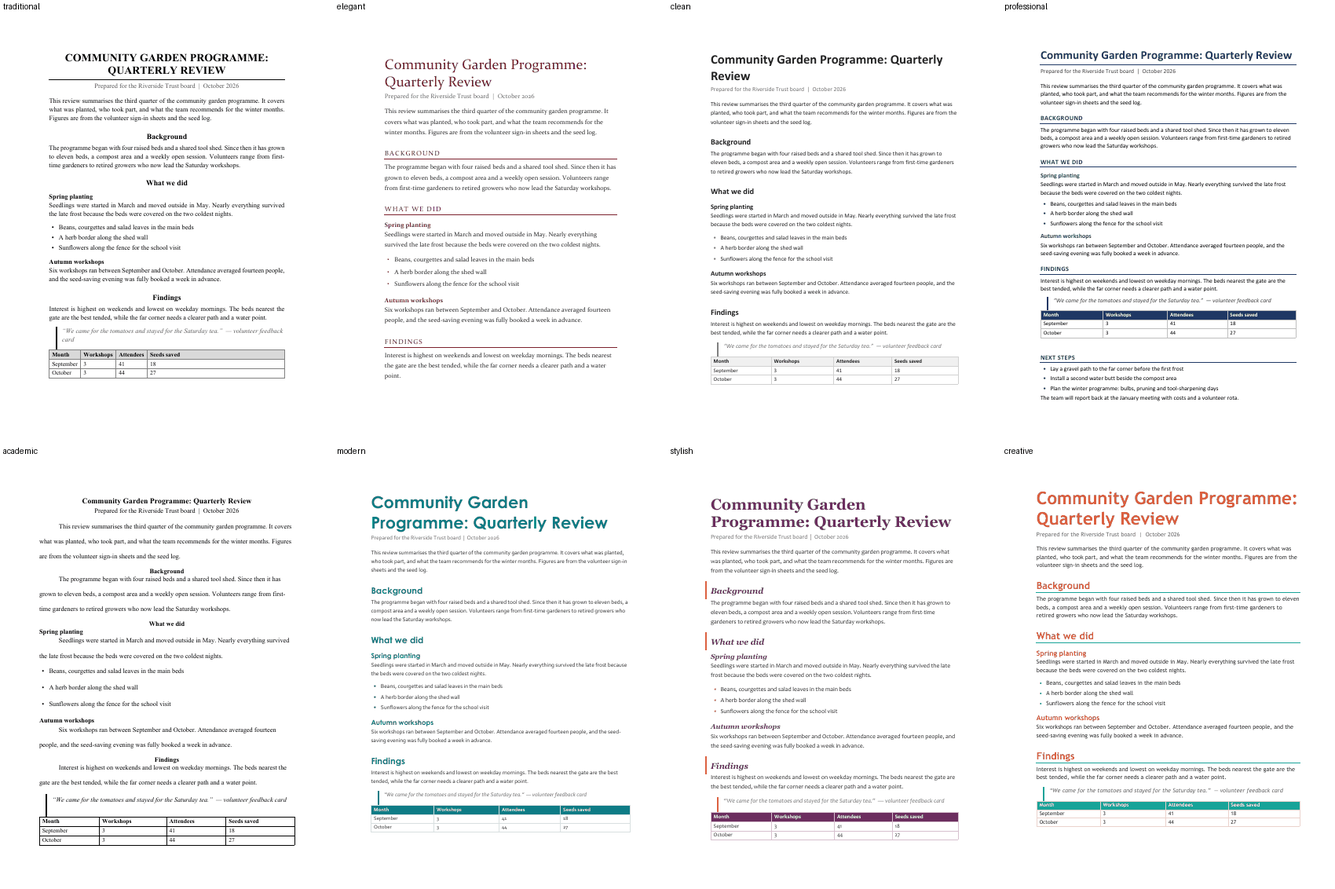
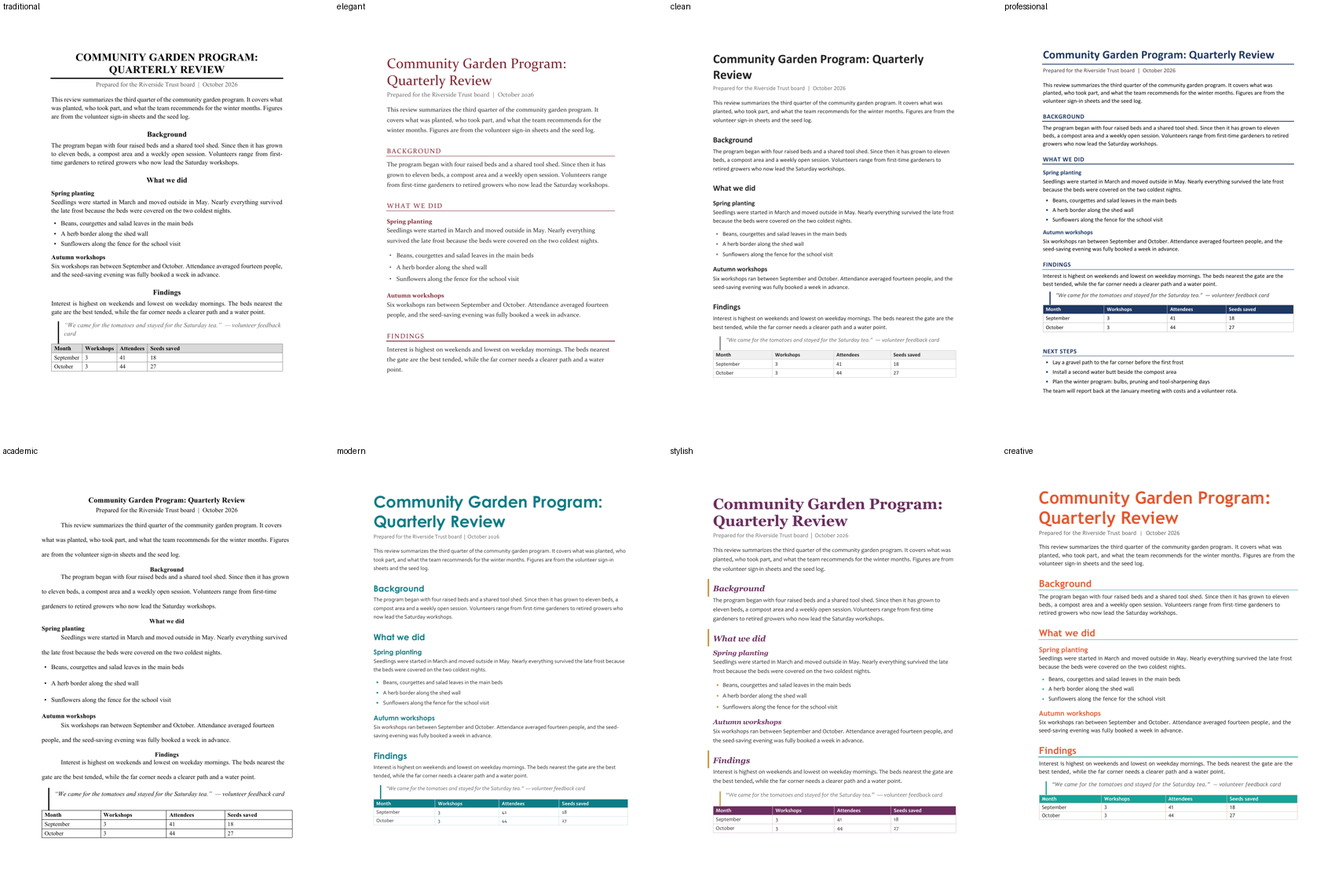
styles: report kind (quarterly program review) in all 8 styles; US spelling in sample text; doc previews regenerated

diff --git a/styles/content.py b/styles/content.py
@@ -1,12 +1,12 @@
-"""Invented sample content used to show a style on a real-looking page. Nothing here describes a real person or organisation."""
+"""Invented sample content used to show a style on a real-looking page. Nothing here describes a real person or organization."""
 
 DOC = [
-    ("title", "Community Garden Programme: Quarterly Review"),
+    ("title", "Community Garden Program: Quarterly Review"),
     ("subtitle", "Prepared for the Riverside Trust board  |  October 2026"),
-    ("p", "This review summarises the third quarter of the community garden programme. It covers what was planted, who took part, "
+    ("p", "This review summarizes the third quarter of the community garden program. It covers what was planted, who took part, "
           "and what the team recommends for the winter months. Figures are from the volunteer sign-in sheets and the seed log."),
     ("h1", "Background"),
-    ("p", "The programme began with four raised beds and a shared tool shed. Since then it has grown to eleven beds, a compost area and a "
+    ("p", "The program began with four raised beds and a shared tool shed. Since then it has grown to eleven beds, a compost area and a "
           "weekly open session. Volunteers range from first-time gardeners to retired growers who now lead the Saturday workshops."),
     ("h1", "What we did"),
     ("h2", "Spring planting"),
@@ -26,7 +26,7 @@ DOC = [
     ("h1", "Next steps"),
     ("bullets", ["Lay a gravel path to the far corner before the first frost",
                  "Install a second water butt beside the compost area",
-                 "Plan the winter programme: bulbs, pruning and tool-sharpening days"]),
+                 "Plan the winter program: bulbs, pruning and tool-sharpening days"]),
     ("p", "The team will report back at the January meeting with costs and a volunteer rota."),
 ]
 
@@ -73,7 +73,7 @@ CV = {
                      "Wrote four successful grant applications totalling EUR 850,000."]},
         {"title": "Project Officer", "dates": "09/2017 \u2013 02/2021", "org": "Demo Urban Greening Office  \u2022  Otherville, Exampleland",
          "bullets": ["Planned and monitored 30 pocket-park installations.",
-                     "Introduced a shared monitoring spreadsheet used by six partner organisations."]},
+                     "Introduced a shared monitoring spreadsheet used by six partner organizations."]},
     ],
     "education": [("MSc Environmental Management", "Example University of Technology, Sampletown", "2015 \u2013 2017"),
                   ("BSc Geography", "Sample State University, Otherville", "2012 \u2013 2015")],
@@ -99,7 +99,7 @@ RESUME_EXTRA = {
 
 # Invented student paper. The sources are fictional; replace them with real ones.
 PAPER = {
-    "title": "Community Gardens and Neighbourhood Wellbeing",
+    "title": "Community Gardens and Neighborhood Wellbeing",
     "author": "Jane Doe", "surname": "Doe", "affiliation": "Example University",
     "course": "SOC 210: Urban Communities", "instructor": "Dr. Mary Major", "date": "October 26, 2026",
     "body": [
@@ -107,10 +107,10 @@ PAPER = {
               "This paper reviews two recent studies and argues that the clearest benefit is social rather than nutritional {c1}."),
         ("h1", "Background"),
         ("p", "Early work on urban gardening focused on food production and cost savings. More recent studies ask instead how shared growing spaces "
-              "change the way neighbours know and trust one another {c2}."),
+              "change the way neighbors know and trust one another {c2}."),
         ("h2", "Measuring wellbeing"),
         ("p", "Both studies rely on short surveys given at the start and end of a growing season. Respondents rate their sense of belonging, "
-              "and the researchers compare gardeners with a matched group of non-gardening neighbours."),
+              "and the researchers compare gardeners with a matched group of non-gardening neighbors."),
         ("h1", "Discussion"),
         ("p", "The two studies agree on the direction of the effect and differ on its size. The larger effect appears where gardens run open weekly sessions, "
               "which suggests that the schedule matters as much as the soil {c1}."),
@@ -139,13 +139,13 @@ SCRIPTS = {
 # Extra blocks for papers (--extras): an abstract, a block quote and a captioned table.
 PAPER_EXTRAS = {
     "abstract": ("This paper compares two recent studies of community gardens and argues that their clearest benefit is social. "
-                 "It summarises how each study measured belonging, notes where the findings agree, and suggests that weekly open sessions "
+                 "It summarizes how each study measured belonging, notes where the findings agree, and suggests that weekly open sessions "
                  "matter more than garden size."),
-    "keywords": "community gardens, belonging, urban neighbourhoods",
+    "keywords": "community gardens, belonging, urban neighborhoods",
     "quote": ("The garden gate is rarely locked, and that, more than the vegetables, seems to be the point: anyone may walk in, "
               "pick up a trowel, and be asked what they are growing."),
     "table_caption": ("Table 1", "Survey sample by group"),
-    "table_rows": [["Group", "Respondents", "Mean belonging score"], ["Gardeners", "112", "4.1"], ["Neighbours", "102", "3.4"]],
+    "table_rows": [["Group", "Respondents", "Mean belonging score"], ["Gardeners", "112", "4.1"], ["Neighbors", "102", "3.4"]],
 }
 
 # Invented manuscript (a short novel opening). Markup used by --text files too: a line "# Title" starts a chapter, a line "#" or "* * *" alone is a scene break,
@@ -153,7 +153,7 @@ PAPER_EXTRAS = {
 MANUSCRIPT = {
     "title": "Salt and Lantern Light",
     "author": "Rowan Tilby", "pen": "Rowan Tilby", "surname": "Tilby",
-    "address": ["14 Example Row", "Harbourside, EX1 2AB, United Kingdom"],
+    "address": ["14 Example Row", "Harborside, OR 97000"],
     "phone": "(555) 010-0142", "email": "rowan.tilby@example.com",
     "text": """# Chapter One: The Last Boat
 
@@ -198,7 +198,7 @@ THE END
 # lines is a character cue with dialogue, and a line in (parentheses) inside it is a parenthetical; everything else is action. *word* is italic.
 SCREENPLAY = {
     "title": "The Last Signal", "author": "Sam Whitlock",
-    "contact": ["14 Example Row", "Harbourside, EX1 2AB", "(555) 010-0142", "sam.whitlock@example.com"],
+    "contact": ["14 Example Row", "Harborside, OR 97000", "(555) 010-0142", "sam.whitlock@example.com"],
     "draft": "First draft",
     "text": """FADE IN:
 
@@ -295,7 +295,7 @@ Ida must decide whether to leave and let her mother's lamp go out, or to take ov
 # ((parenthetical) lines inside a speech are kept), BLACKOUT. / CURTAIN. / END OF PLAY close a scene or the play, *word* is italic.
 STAGEPLAY = {
     "title": "Weather Station", "author": "Casey Larkin", "credit": "a play in one act", "draft": "First draft",
-    "contact": ["14 Example Row", "Harbourside, EX1 2AB", "(555) 010-0142", "casey.larkin@example.com"],
+    "contact": ["14 Example Row", "Harborside, OR 97000", "(555) 010-0142", "casey.larkin@example.com"],
     "text": """CHARACTERS
 MIRA OKONKWO, 40s, the station keeper
 DEV HALLORAN, 20s, her new assistant
@@ -360,4 +360,37 @@ CURTAIN.
 
 END OF PLAY
 """,
+}
+
+# Invented quarterly program review (the `report` kind). Nothing here is real.
+REPORT = {
+    "title": "Community Garden Program",
+    "subtitle": "Quarterly Review, Q3 2026",
+    "meta": [("Project", "Community Garden Program"), ("Period", "July – September 2026"),
+             ("Prepared by", "Program team"), ("Status", "On track")],
+    "summary": ("The garden finished the third quarter on schedule and slightly under budget. Eleven of twelve planned beds are in use, "
+                "six workshops ran with strong attendance, and volunteer numbers held steady through the summer heat. "
+                "One item needs a board decision: funding for a water point in the far corner."),
+    "kpis": [("11 of 12", "Raised beds in use"), ("86%", "Volunteer retention"), ("$9,400", "Spent of $12,000 budget"), ("6", "Workshops held")],
+    "highlights": ["Beds 10 and 11 were built and planted in August with the help of a school group",
+                   "The seed-saving evening was fully booked a week in advance",
+                   "Volunteer sign-ins rose 12% over the second quarter"],
+    "milestones": [["Milestone", "Owner", "Due", "Status"],
+                   ["Build beds 9–11", "Facilities", "Aug 15", "Complete"],
+                   ["Autumn workshop series", "Education", "Oct 31", "On track"],
+                   ["Second water butt installed", "Facilities", "Sep 30", "At risk"],
+                   ["Gravel path to far corner", "Facilities", "Sep 15", "Delayed"]],
+    "budget": [["Category", "Budget", "Actual", "Variance"],
+               ["Soil and compost", "$3,000", "$2,750", "+$250"],
+               ["Tools and materials", "$4,500", "$4,380", "+$120"],
+               ["Workshops", "$2,500", "$2,270", "+$230"],
+               ["Contingency", "$2,000", "$0", "+$2,000"]],
+    "risks": [["Risk", "Rating", "Mitigation"],
+              ["Far corner has no water point", "High", "Request board approval for a water line in October"],
+              ["Fewer weekday volunteers", "Medium", "Pair weekday sessions with the school visit schedule"],
+              ["Early frost before bulbs go in", "Low", "Keep row covers in the tool shed"]],
+    "next": ["Lay the gravel path and install the second water butt before the first frost",
+             "Run the three remaining autumn workshops",
+             "Bring costs for the water line to the January board meeting"],
+    "note": "Figures are from the volunteer sign-in sheets, the seed log and the treasurer's ledger (invented sample data).",
 }

diff --git a/styles/plan.py b/styles/plan.py
@@ -2,7 +2,7 @@
 
     plan = make("modern", "cv", {"paper": "a4"})        # a dict; see the keys at the bottom of make()
 
-Kinds: doc (report), resume (ATS-safe, one column), cv (European CV), paper (student paper, `fmt` apa or mla),
+Kinds: doc (generic styled document), report (quarterly program review: fact sheet, KPI row, status tables), resume (ATS-safe, one column), cv (European CV), paper (student paper, `fmt` apa or mla),
 manuscript (standard manuscript format for publishers/agents; options title author pen surname address phone email wordcount ms_font=times|courier
 ms_layout=novel|short text=/abs/file.txt),
 stageplay (common US playwright layout; options as screenplay plus font=times|courier),
@@ -115,6 +115,68 @@ def make(style_name, kind, o=None):
                                    "style": "Doc Figure", "caption_style": "Doc Caption", "alt": "Bar chart of workshop attendance by session"})
         plan["props"] = {"title": "Style sample: " + style_name, "author": "Sample Author", "subject": S["summary"]}
         if o.get("columns"): notes.append("columns: fine for newsletters and handouts; never use them in a résumé (see styles/README.md on ATS).")
+
+    # ---------------------------------------------------------------- report (quarterly review)
+    elif kind == "report":
+        R = content.REPORT
+        bs = SZ["body"]
+        tint = lambda hx, k: "".join("%02X" % round(int(hx[i:i + 2], 16) * (1 - k) + 255 * k) for i in (0, 2, 4))
+        add("Normal", font=BF, size=bs, color=C["text"], before=0, after=max(B["after"], 6), align="left", indent_first=0, line=min(B["line"], 1.2))   # a report is single-spaced even in the double-spaced academic style
+        hp = dict(font=HF, size=SZ["h1"], color=C["heading"], bold=H["bold"], italic=H["italic"], caps=H["caps"], spacing=H["spacing"],
+                  before=max(H["before"], 16), after=max(H["after"], 6), keep_next=True, align="left", indent_first=0, line=1.0)
+        hp.update(_rule(H, C["accent"], kind)); add("Heading 1", **hp)
+        add("Heading 2", font=HF, size=SZ["h2"], color=C["heading"], bold=True, italic=H["italic"], before=8, after=3, keep_next=True, align="left", indent_first=0, line=1.0)
+        tp = dict(font=HF, size=SZ["title"], color=C["heading"], bold=T["bold"], caps=T["caps"], align="left", after=2, indent_first=0, line=1.0)
+        if T["rule"] == "bottom": tp["border_bottom"] = (C["accent"], 1.5, 4)
+        add("Doc Title", **tp)
+        add("Doc Subtitle", font=HF, size=SZ["h1"], color=C["accent"], bold=False, align="left", after=12, indent_first=0, line=1.0)
+        add("Doc Bullet", indent_first=0, after=3, align="left")
+        add("Doc Table", font=BF, size=max(bs - 1, 8), color=C["text"], before=2, after=2, align="left", indent_first=0, line=1.0)
+        add("Rpt Label", font=BF, size=max(bs - 1.5, 8), color=C["muted"], bold=True, before=2, after=2, align="left", indent_first=0, line=1.0)
+        add("Rpt KPI Value", font=HF, size=22, color=C["accent"] if C["accent"] != C["muted"] else C["heading"], bold=True, before=6, after=0, align="center", indent_first=0, line=1.0)
+        add("Rpt KPI Label", font=BF, size=max(bs - 1.5, 8), color=C["muted"], before=0, after=6, align="center", indent_first=0, line=1.0)
+        add("Rpt Note", font=BF, size=max(bs - 2, 8), color=C["muted"], italic=True, before=10, after=0, align="left", indent_first=0, line=1.0)
+        soft = tint(C["accent"], 0.88)
+        TBL = dict(t="table", rich=True, text=TB["header_text"], border=TB["border"], style="Doc Table")
+        RAG = {"Complete": ("C8E6C9", "1B5E20"), "On track": ("C8E6C9", "1B5E20"), "At risk": ("FFE9A8", "6B4A00"), "Delayed": ("F8C9C4", "8E1B10"),
+               "High": ("F8C9C4", "8E1B10"), "Medium": ("FFE9A8", "6B4A00"), "Low": ("C8E6C9", "1B5E20")}
+
+        def rag_cells(rows, col):
+            return {"%d,%d" % (r, col): RAG[row[col]] for r, row in enumerate(rows) if r and row[col] in RAG}
+
+        para("Doc Title", R["title"]); para("Doc Subtitle", R["subtitle"])
+        # label / value pairs in two rows of two, so the table reads as a quick fact sheet
+        meta = [[R["meta"][0][0], R["meta"][0][1], R["meta"][1][0], R["meta"][1][1]], [R["meta"][2][0], R["meta"][2][1], R["meta"][3][0], R["meta"][3][1]]]
+        fills = {"%d,%d" % (r, c): (soft, None) for r in range(2) for c in range(4)}
+        fills.update({"1,3": RAG[R["meta"][3][1]]})
+        blocks.append(dict(TBL, rows=meta, header=False, grid=False, fills=fills, widths=[0.17, 0.33, 0.17, 0.33],
+                           cell_styles=[["Rpt Label", "Doc Table", "Rpt Label", "Doc Table"]] * 2))
+        para("Heading 1", "1. Executive summary"); para("Normal", R["summary"])
+        k = R["kpis"]
+        blocks.append(dict(TBL, rows=[[v for v, _ in k], [l for _, l in k]], header=False, grid=False,
+                           fills={"%d,%d" % (r, c): (soft, None) for r in range(2) for c in range(len(k))},
+                           cell_styles=[["Rpt KPI Value"] * len(k), ["Rpt KPI Label"] * len(k)]))
+        para("Heading 1", "2. Highlights")
+        for b in R["highlights"]: para("Doc Bullet", b, bullet=True)
+        para("Heading 1", "3. Milestones")
+        rows = R["milestones"]
+        blocks.append(dict(TBL, rows=rows, header=True, grid=True, fill=TB["header_fill"], fills=rag_cells(rows, 3), widths=[0.40, 0.22, 0.14, 0.24],
+                           cell_styles=[["Doc Table"] * 4] * len(rows)))
+        para("Heading 1", "4. Budget")
+        rows = R["budget"]
+        blocks.append(dict(TBL, rows=rows, header=True, grid=True, fill=TB["header_fill"], fills={}, widths=[0.40, 0.20, 0.20, 0.20],
+                           cell_styles=[["Doc Table"] * 4] * len(rows)))
+        para("Heading 1", "5. Risks and issues")
+        rows = R["risks"]
+        blocks.append(dict(TBL, rows=rows, header=True, grid=True, fill=TB["header_fill"], fills=rag_cells(rows, 1), widths=[0.34, 0.14, 0.52],
+                           cell_styles=[["Doc Table"] * 3] * len(rows)))
+        para("Heading 1", "6. Next quarter")
+        for b in R["next"]: para("Doc Bullet", b, bullet=True)
+        para("Rpt Note", R["note"])
+        if not o.get("page_numbers"): plan["footer"] = {"number": True, "align": "right"}
+        if not o.get("header_text"): plan["header"] = {"text": R["title"] + "  |  " + R["subtitle"], "number": False, "align": "left"}
+        plan["props"] = {"title": R["title"] + ": " + R["subtitle"], "author": "Sample Author", "subject": S["summary"]}
+        notes.append("report: status cells carry the word (Complete, At risk, High...) as well as the colour, so the table still reads in greyscale or to a screen reader.")
 
     # ---------------------------------------------------------------- resume / cv
     elif kind in ("resume", "cv"):

diff --git a/styles/build_onlyoffice.py b/styles/build_onlyoffice.py
@@ -3,7 +3,7 @@
     python3 -I build_onlyoffice.py STYLE KIND /abs/out.docx [options] > calls.json
     python3 -I ../onlyoffice/tools/ooc.py new:docx calls.json
 
-STYLE and KIND as in build_wordcraft.py (doc | resume | cv | paper | manuscript | screenplay | query | synopsis | stageplay; the manuscript options --title --author --pen --surname --address --phone --email --wordcount --font --layout --text work here too). Options (`--name=value`): --paper=letter|a4,
+STYLE and KIND as in build_wordcraft.py (doc | report | resume | cv | paper | manuscript | screenplay | query | synopsis | stageplay; the manuscript options --title --author --pen --surname --address --phone --email --wordcount --font --layout --text work here too). Options (`--name=value`): --paper=letter|a4,
 --page-numbers=bottom-center|bottom-right|top-right, --header-text=…, --columns=2 (doc), --photo=/abs/pic.png (resume/cv), --figure=sample|/abs/pic.png, --merged-table, --footnotes,
 --script=arabic|hebrew|japanese|chinese|korean (doc), --extras (paper),
 --layout=chronological|functional|combined (resume), --format=apa|mla (paper), --local-fonts, --pdf (also save a PDF rendered by
@@ -138,6 +138,25 @@ function addTable(b) {
   ["Top", "Bottom", "Left", "Right", "InsideH", "InsideV"].forEach(function (s) { tbl["SetTableBorder" + s]("single", 4, 0, col(b.border)); });
   doc.Push(tbl);
 }
+function addRichTable(b) {   // report tables: per-cell styles and fills, optional widths / header row / grid
+  var rows = b.rows, nr = rows.length, nc = rows[0].length, W = PLAN.width;
+  var tbl = Api.CreateTable(nr, nc);
+  tbl.SetWidth("percent", 100);
+  for (var r = 0; r < nr; r++) {
+    for (var c = 0; c < nc; c++) {
+      var cell = tbl.GetRow(r).GetCell(c), p = cell.GetContent().GetElement(0), f = b.fills[r + "," + c];
+      if (b.widths) { try { cell.SetWidth("twips", tw(b.widths[c] * W)); } catch (e) {} }
+      p.SetStyle(doc.GetStyle(b.cell_styles[r][c]));
+      var run = Api.CreateRun(); run.AddText(rows[r][c]); p.AddElement(run);
+      if (b.header && r === 0) { cell.SetShd("clear", col(b.fill)); run.SetBold(true); run.SetColor(col(b.text)); }
+      else if (f) { cell.SetShd("clear", col(f[0])); if (f[1]) { run.SetBold(true); run.SetColor(col(f[1])); } }
+    }
+  }
+  ["Top", "Bottom", "Left", "Right", "InsideH", "InsideV"].forEach(function (s) {
+    if (b.grid) tbl["SetTableBorder" + s]("single", 4, 0, col(b.border)); else tbl["SetTableBorder" + s]("none", 0, 0, Api.Color("#000000"));
+  });
+  doc.Push(tbl);
+}
 function addDualTable(b) {   // dual dialogue: a borderless table with one row and two cells
   var tbl = Api.CreateTable(1, 2);   // (rows, columns) as in addTable
   tbl.SetWidth("percent", 100);
@@ -167,7 +186,7 @@ for (var j = 0; j < PLAN.blocks.length; j++) {
   else if (b.t === "figure") addPara(b.caption_style, [[false, b.caption]], false);   // caption only; word_add_image puts the picture before it
   else if (b.t === "spacer") pendingBefore = b.pt;
   else if (b.t === "pagebreak") pendingBreak = true;
-  else if (b.t === "table") addTable(b);
+  else if (b.t === "table") { if (b.rich) addRichTable(b); else addTable(b); }
   else if (b.t === "dual") addDualTable(b);
   else if (b.t === "columns") { doc.CreateSection(lastPara); COLS = b.n; }
   else if (b.t === "sectionbreak") { SECBREAK = true; doc.CreateSection(lastPara); }   // the title page ends here

diff --git a/styles/build_wordcraft.py b/styles/build_wordcraft.py
@@ -4,7 +4,7 @@
     wordcraft-cli run --script job.json
 
 STYLE: traditional elegant clean professional academic modern stylish creative   (see styles.json)
-KIND:  doc | resume | cv | paper | manuscript | screenplay | query | synopsis | stageplay   (paper uses the academic style; add --format=apa|mla; manuscript, screenplay, query, synopsis and stageplay ignore STYLE)
+KIND:  doc | report | resume | cv | paper | manuscript | screenplay | query | synopsis | stageplay   (paper uses the academic style; add --format=apa|mla; manuscript, screenplay, query, synopsis and stageplay ignore STYLE)
 Options (all `--name=value`):
   --paper=letter|a4            page size (default letter; cv defaults to a4)
   --page-numbers=bottom-center|bottom-right|top-right      --header-text="Short title"
@@ -204,6 +204,28 @@ for blk in P["blocks"]:
         new_para(); c("para.style", style=blk["style"])
         c("insert.picture", path=blk["path"], width=blk["w"], alt=blk["alt"])
         c("text.newParagraph"); c("para.style", style=blk["caption_style"]); c("text.insert", text=blk["caption"])
+    elif t_ == "table" and blk.get("rich"):
+        # report tables: per-cell styles and fills (status colours), optional column widths, optional header row, optional grid
+        new_para()
+        rows = blk["rows"]; ncol = len(rows[0]); fills = blk.get("fills", {})
+        c("insert.table", rows=len(rows), cols=ncol, style="Table Grid" if blk["grid"] else "Normal Table")
+        c("table.autofit", mode="fixed")
+        if blk["header"]:   # shade the header FIRST (caret.up moves by visual line, not by row)
+            c("table.selectRow"); c("table.shading", color=rgb(blk["fill"])); c("table.repeatHeader"); c("select.collapse")
+        for ri, row in enumerate(rows):
+            for ci, cell in enumerate(row):
+                if ri == 0 and blk.get("widths"): c("table.columnWidth", width=round(blk["widths"][ci] * P["width"], 1))
+                fill, tcol = fills.get("%d,%d" % (ri, ci), (None, None))
+                if fill: c("table.selectCell"); c("table.shading", color=rgb(fill)); c("select.collapse")
+                c("para.style", style=blk["cell_styles"][ri][ci])
+                head = blk["header"] and ri == 0
+                if head: c("format.set", props={"bold": True, "color": rgb(blk["text"])})
+                elif tcol: c("format.set", props={"bold": True, "color": rgb(tcol)})
+                if cell: c("text.insert", text=cell)
+                if head or tcol: c("format.resetChar")
+                if not (ri == len(rows) - 1 and ci == ncol - 1): c("caret.right")
+        if blk["grid"]: c("table.borders", color=rgb(blk["border"]), width=0.5)
+        c("caret.docEnd"); first[0] = True
     elif t_ == "table":
         new_para()
         rows = blk["rows"]; ncol = len(rows[0]); merged = bool(blk.get("merge"))

diff --git a/styles/README.md b/styles/README.md
@@ -12,7 +12,7 @@ WordCraft and ONLYOFFICE, so they produce the same look. All sample text is inve
 | `professional` | Calibri, navy all-caps headings with a bottom rule | Business reports, proposals, ATS résumés |
 | `academic` | Times 12 pt, double-spaced, first-line indents, plain bold headings | Essays and papers (with `paper`: APA or MLA layout) |
 | `modern` | Century Gothic headings in teal, Corbel body, large title | Product docs, newsletters, design-aware résumés |
-| `stylish` | Georgia italic plum headings with a gold bar, Candara body | Programmes, editorial handouts, brand-conscious proposals |
+| `stylish` | Georgia italic plum headings with a gold bar, Candara body | Programs, editorial handouts, brand-conscious proposals |
 | `creative` | Coral headings, teal rule, Trebuchet, big title | Portfolios, workshop handouts, creative-field résumés |
 
 ![WordCraft documents](gallery/wordcraft-doc.png)
@@ -32,7 +32,7 @@ python3 -I build_wordcraft.py modern doc /abs/report.docx > job.json && wordcraf
 python3 -I build_onlyoffice.py modern doc /abs/report.docx > calls.json && python3 -I ../onlyoffice/tools/ooc.py new:docx calls.json
 ```
 
-`KIND` is `doc`, `resume`, `cv`, `paper`, `manuscript`, `screenplay`, `stageplay`, `query` or `synopsis` (see below; the STYLE argument is ignored for the last five). Options, the same in both builders (`--name=value`):
+`KIND` is `doc` (generic styled document), `report` (quarterly program review), `resume`, `cv`, `paper`, `manuscript`, `screenplay`, `stageplay`, `query` or `synopsis` (see below; the STYLE argument is ignored for the last five). Options, the same in both builders (`--name=value`):
 
 | Option | Applies to | What it does |
 |---|---|---|
@@ -54,6 +54,22 @@ python3 -I build_onlyoffice.py modern doc /abs/report.docx > calls.json && pytho
 Cautions (for example "photo is not ATS-safe") are printed to stderr. Replace the invented text in `content.py` with real content; keep the
 block types. To restyle a real document instead of the sample, copy the style-setting part of a builder onto the document's existing styles
 and give paragraphs the style names (`Heading 1`, `Heading 2`, `Doc Title`, …). Always work on a copy of someone's document.
+
+## Quarterly review / status report (`report`)
+
+![Quarterly review in all eight styles (WordCraft)](gallery/report-styles.png)
+
+`report` is a business-report layout, not a résumé variant: title and subtitle, a **fact-sheet table** (project, period, prepared by, status), a numbered
+**executive summary**, a **KPI row** (four big numbers with captions), bullets, and three tables: **milestones** and **risks** with colour-coded status
+cells, and a **budget** table. Page header carries the report title; page number bottom right. Any of the eight styles works
+(`python3 -I build_wordcraft.py professional report /abs/review.docx > job.json`); the style picks fonts, heading colour, table header fill and the KPI tint.
+Layout ideas came from looking at common quarterly-review and QBR templates (fact sheet on top, KPI tiles, RAG status columns); no template was copied.
+
+- Status cells carry the word (Complete, On track, At risk, Delayed, High, Medium, Low) as well as the colour, so the table still reads in greyscale or in a screen reader.
+- The report is single-spaced even in `academic`; fonts and colours otherwise follow the style.
+- Replace the invented data in `content.REPORT`; keep the keys. The tables take their column widths from fractions in `plan.py`.
+- Built and rendered in WordCraft (all 8 styles) and ONLYOFFICE (`modern` checked: same look, fills, widths and KPI row).
+- Known gap: a heading can land alone at the bottom of a page when the table after it moves to the next one (keep-with-next does not hold a heading to a table). Check page breaks after you replace the sample data.
 
 ## Manuscript for a publisher or agent (`manuscript`)
 

diff --git a/wordcraft/SKILL.md b/wordcraft/SKILL.md
@@ -270,6 +270,7 @@ ATS notes and options. Verified: every style in 3 kinds plus the feature samples
 - Right-to-left: `para.set {"props":{"bidi":true,"align":"left"}}` — in a bidi paragraph "left" is the START edge, so it renders on the right of the page ("right" renders left). Set the font with `format.set {"props":{"font":"Arial","fontCs":"Arial"}}`; for CJK add `"fontEa":"Noto Sans CJK JP"`. Reset the next paragraph with `bidi:false` and `format.resetChar`.
 - Figure: `insert.picture {"path","width":300,"alt":"…"}` in a `Doc Figure` paragraph, then `text.newParagraph` and the caption paragraph; the alt text lands as `descr` on the drawing.
 - `wordcraft-cli commands` lists ids only (no parameter docs, no `describe`): learn parameters from this file or by trial, and remember unknown parameter names are silently ignored.
+- **`report` kind (quarterly review), 2026-10-26, 0.11.0:** a table with per-cell fills is built in one pass: `insert.table` (`Normal Table` for borderless KPI/fact-sheet tables, `Table Grid` otherwise) → `table.autofit {"mode":"fixed"}` → shade the header row first (`table.selectRow`, `table.shading`, `table.repeatHeader`, `select.collapse`) → per cell `table.columnWidth` (row 0 only), then for a filled cell `table.selectCell` + `table.shading` + `select.collapse` BEFORE `para.style`/`text.insert`, `format.set` + `format.resetChar` around coloured text, `caret.right`. Widths and fills all rendered correctly. See `styles/plan.py` (`kind == "report"`).
 
 ## Next-tier workflows (verified headless, 0.11.0)
 

diff --git a/onlyoffice/SKILL.md b/onlyoffice/SKILL.md
@@ -366,6 +366,7 @@ for the table, gallery, ATS notes and options. Verified: every style in 3 kinds 
 - Picture alt text: the image tools have no parameter; use `doc.GetAllDrawingObjects()[n].SetDescription("…")` (also `SetTitle`, `SetName`) in a macro afterwards (document order).
 - `word_add_image {"src","width","height","index"}` inserts BEFORE the element at `index` (1-based, top-level elements); when adding several pictures in ascending order, add 1 for each already inserted.
 - Introspect objects when the reference is silent: `for (var k in obj) if (typeof obj[k] === "function" && /pattern/i.test(k)) …` inside `word_write_macro`.
+- **`report` kind (quarterly review), 2026-10-26:** in a `word_write_macro`, `cell.SetWidth("twips", n)` per cell gives column widths, `cell.SetShd("clear", color)` the status fills, and `SetTableBorder*("none", 0, 0, color)` a borderless fact-sheet/KPI table; all matched WordCraft in the PDF render. See `styles/build_onlyoffice.py` (`addRichTable`).
 
 ## Next-tier workflows through macros (verified headless via `tools/ooc.py`, 2026-10-25)
 
